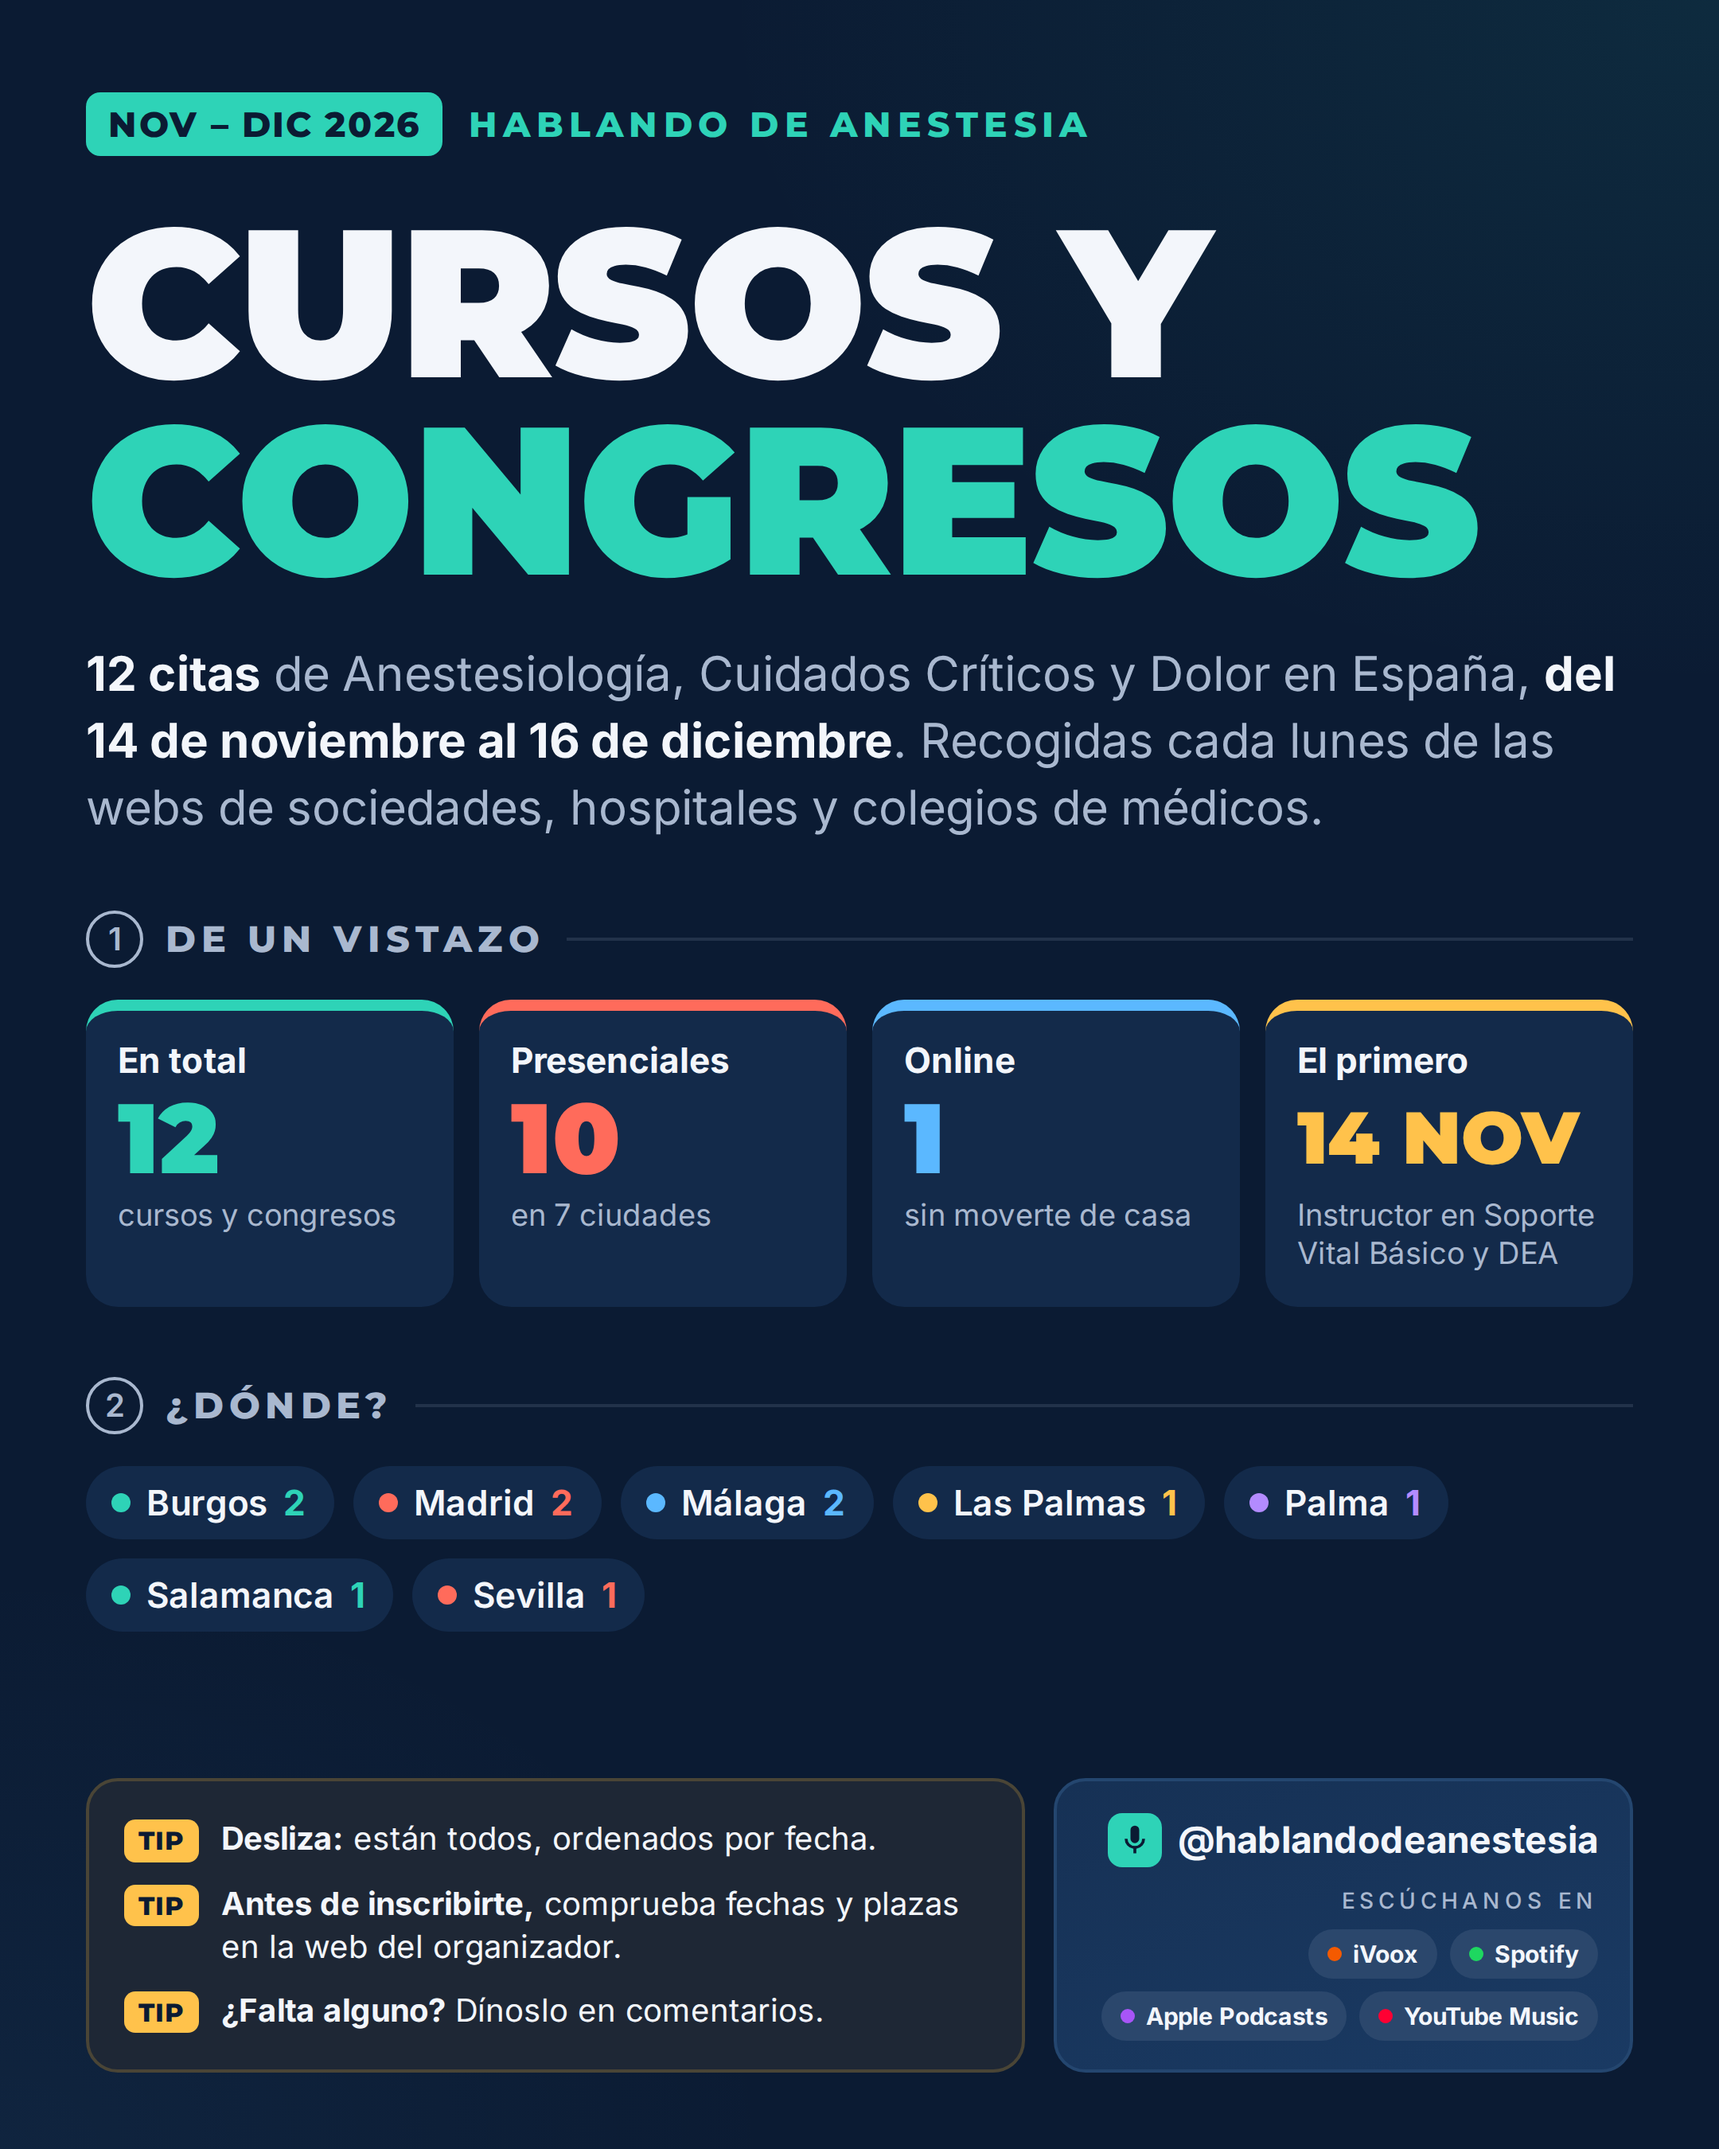
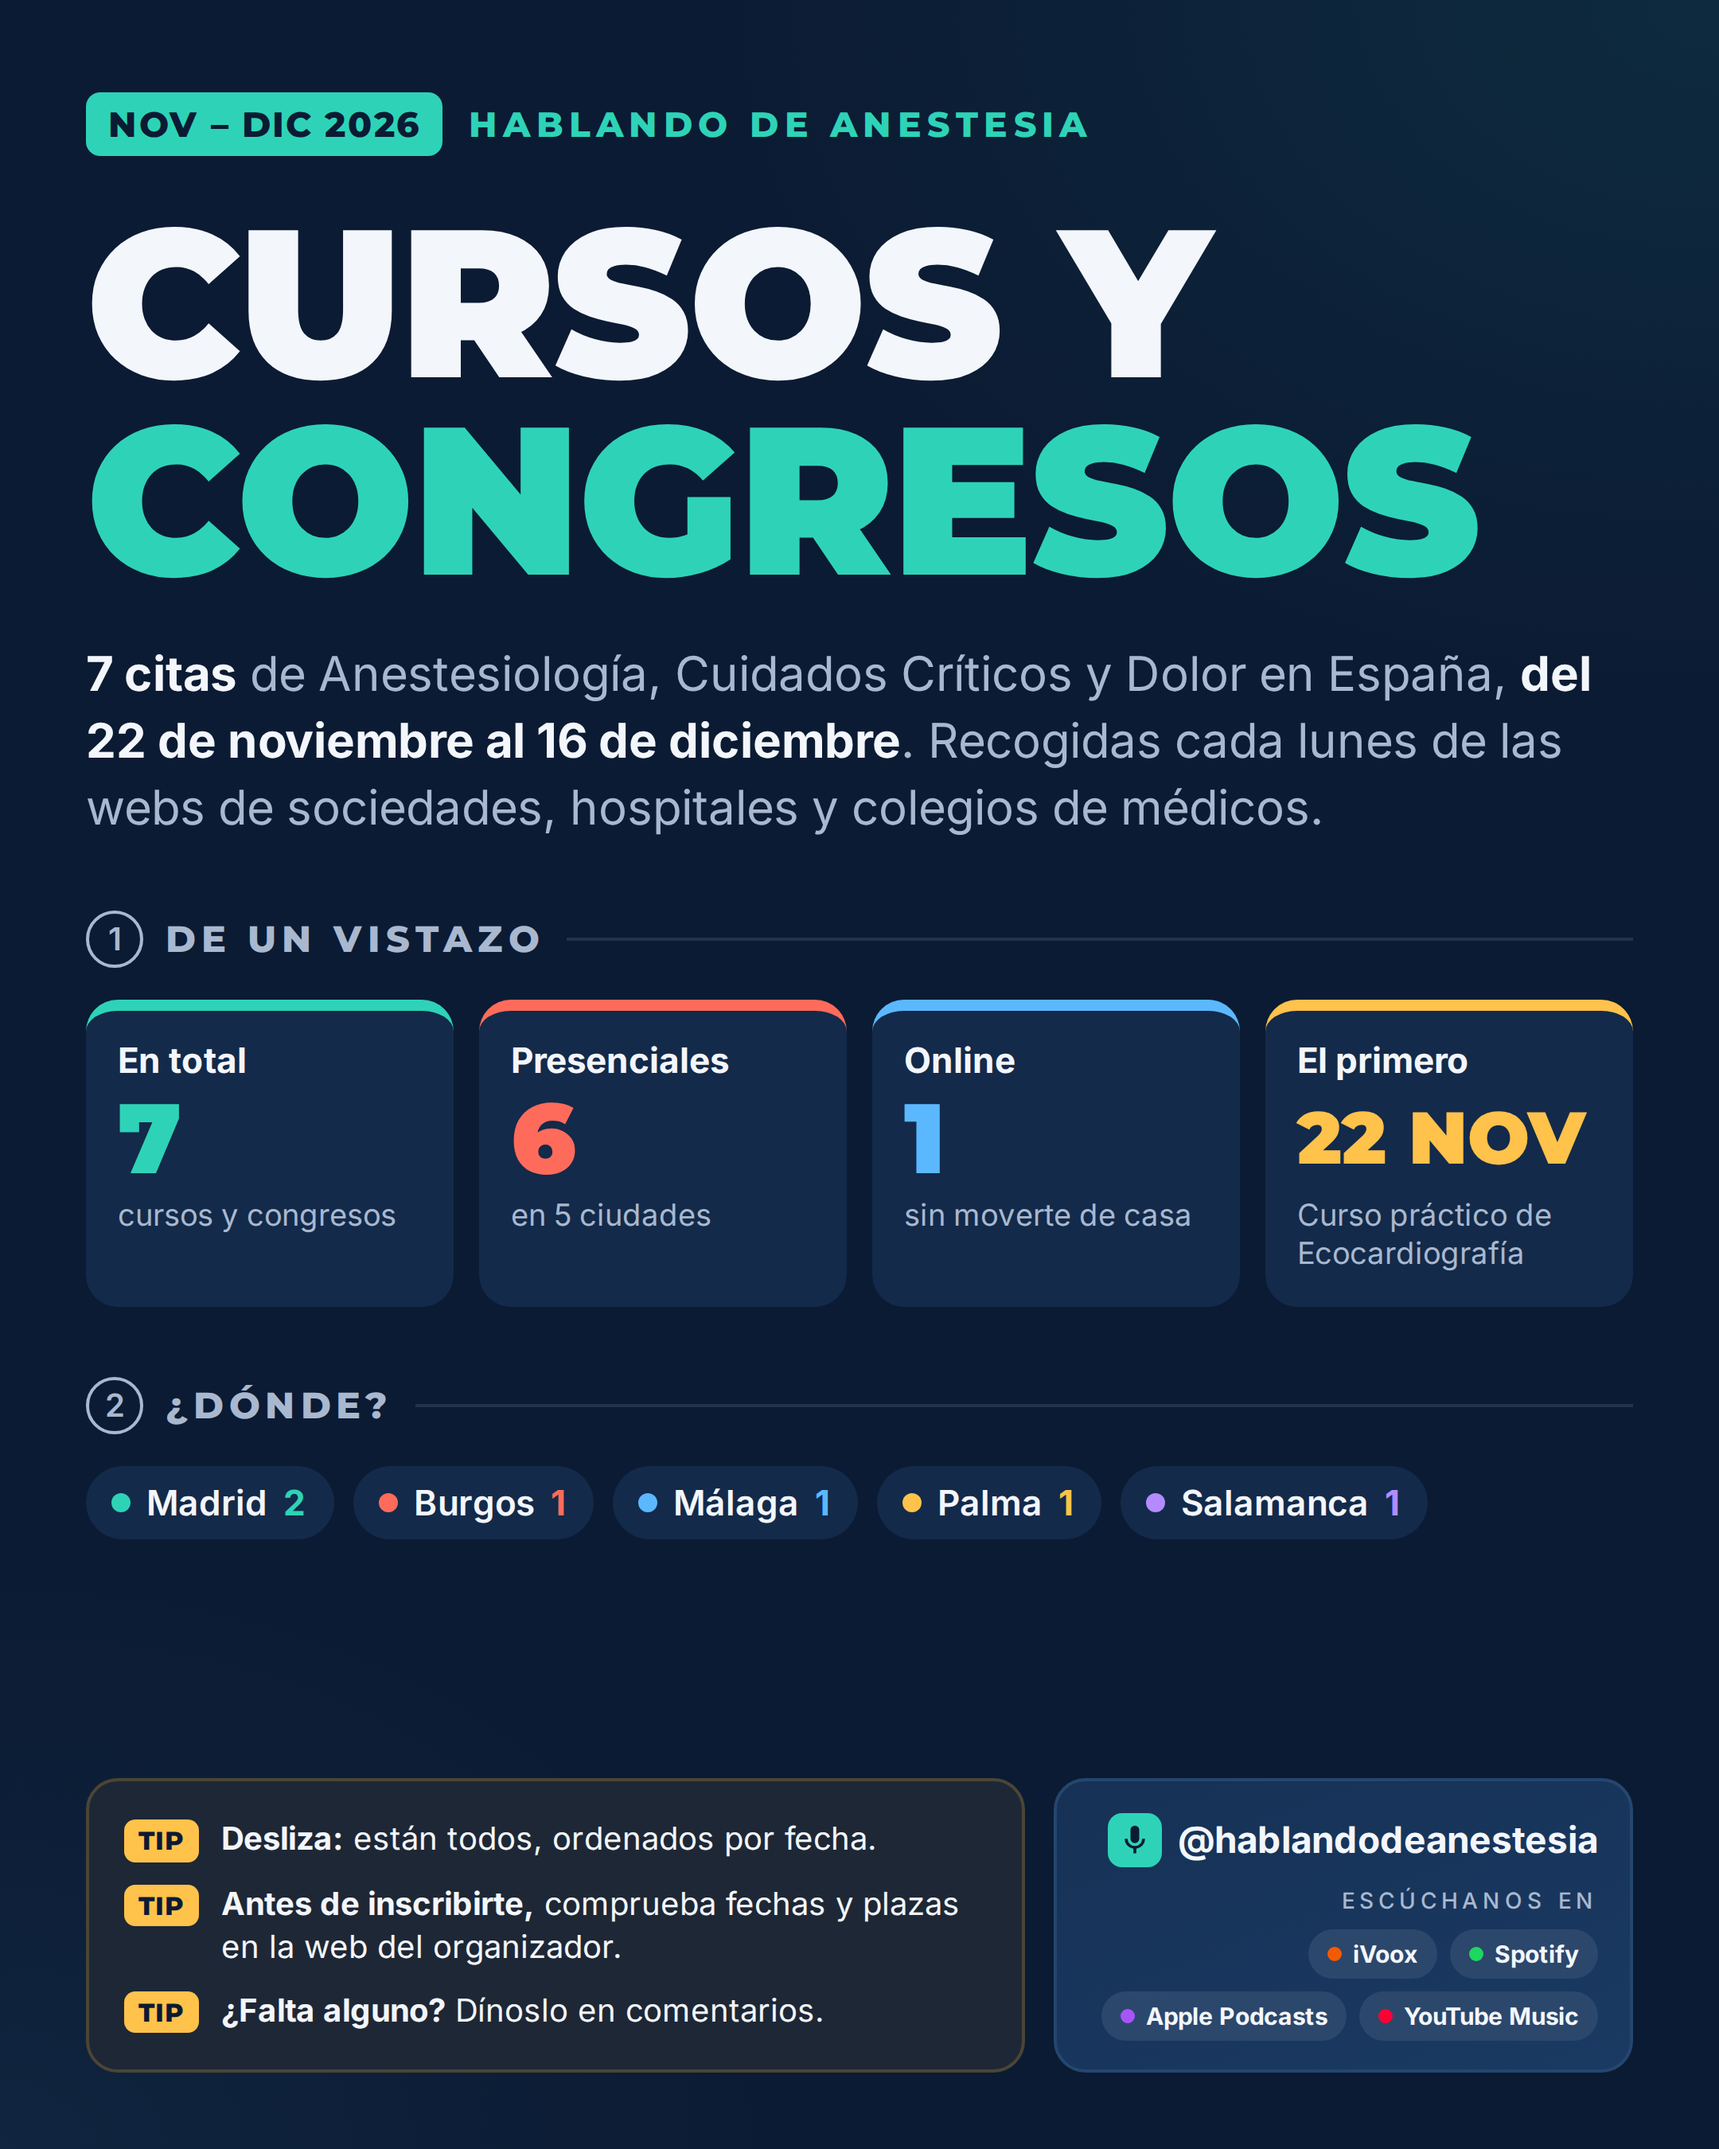
Agenda 2026-11-23

diff --git a/salida/AGENDA-ACTUAL.md b/salida/AGENDA-ACTUAL.md
@@ -1,20 +1,15 @@
 # Agenda — Anestesiología, Cuidados Críticos y Dolor
 
-Generada el 16/11/2026 · 12 eventos
+Generada el 23/11/2026 · 7 eventos
 
 | Título | Fechas | Lugar | Entidad organizadora |
 |---|---|---|---|
-| [Instructor en Soporte Vital Básico y DEA](https://commalaga.com/formacion-commalaga/instructor14noviembre/) | 14 noviembre 2026 | Málaga | Colegio de Médicos de Málaga |
-| [Curso del Colegio: Soporte Vital Cardiaco](https://www.medicoslaspalmas.es/index.php/agenda/month.calendar/2026/11/16/-) | 16 noviembre 2026 | Las Palmas | Colegio de Médicos de Las Palmas |
-| [El baño adaptado del futuro: digitalización, accesibilidad y entornos terapéuticos en el espacio asistencial](https://hospitecnia.com/tecnologia/hospital-digital/bano-adaptado-futuro-digitalizacion-accesibilidad) | 16 noviembre 2026 | — | Hospitecnia — Agenda |
-| [El autocuidado y la prevención del estrés, protagonistas de dos jornadas prácticas dirigidas a profesionales médicos](https://www.combu.es/noticias/combu/actualidad/el-autocuidado-y-la-prevencion-del-estres-protagonistas-de-dos-jornadas-practicas-dirigidas-a-profesionales-medicos/) | 17-25 noviembre 2026 | Burgos | Colegio de Médicos de Burgos |
-| [Nueva sesión del Curso de Soporte Vital Básico y DEA dirigido a médicos y otros profesionales](https://comsevilla.es/nueva-sesion-del-curso-de-soporte-vital-basico-y-dea-dirigido-a-medicos-y-otros-profesionales-el-18-de-noviembre/) | 18 noviembre 2026 | Sevilla | Colegio de Médicos de Sevilla |
-| [II Jornada MIVI – Aesdrc: «Síndrome de Dolor Regional Complejo y Disautonomía, esas grandes desconocidas»](https://comsevilla.es/ii-jornada-mivi-aesdrc-sindrome-de-dolor-regional-complejo-y-disautonomia-esas-grandes-desconocidas/) | 20 noviembre 2026 | Online | Colegio de Médicos de Sevilla |
 | [Curso práctico de Ecocardiografía](https://www.comcordoba.com/curso-practico-de-ecocardiografia/) | 22 noviembre 2026 | Madrid | Colegio de Médicos de Córdoba |
 | [Curso práctico de Ecocardiografía](https://comsalamanca.es/formacion/151268-curso-practico-de-ecocardiografia) | 22 noviembre 2026 | Salamanca | Colegio de Médicos de Salamanca |
 | [Nuevo curso de ecografía clínica en Pediatría los días en Burgos](https://www.combu.es/noticias/combu/actualidad/nuevo-curso-de-ecografia-clinica-en-pediatria-los-dias-23-y-24-de-noviembre-en-burgos/) | 23-24 noviembre 2026 | Burgos | Colegio de Médicos de Burgos |
 | [Jornada Balear de Anestesiología](http://www.sbartd.es/jornada.html) | 27 noviembre 2026 | Palma | SBARTD (Baleares) |
 | [XIX Jornada Anual de Seguridad del Paciente Crítico](https://semicyuc.org/2026/10/xix-jornada-anual-de-seguridad-del-paciente-critico/) | 2 diciembre 2026 | Madrid | SEMICYUC |
+| [Dolor crónico con perspectiva de género: De la evidencia a la práctica clínica](https://formaciondolor.com/evento/dolor-cronico-con-perspectiva-de-genero-de-la-evidencia-a-la-practica-clinica/) | 10 diciembre 2026 | Online | Formación SED |
 | [Curso de Soporte Vital Básico (SVB) y DEA](https://commalaga.com/formacion-commalaga/curso-de-soporte-vital-basico-svb-y-dea-16-de-diciembre/) | 16 diciembre 2026 | Málaga | Colegio de Médicos de Málaga |
 
 > Verificar cada evento en la web oficial antes de publicar: los rastreadores capturan fechas desactualizadas cuando el organizador las cambia.

diff --git a/salida/agenda-2026-11-23.md b/salida/agenda-2026-11-23.md
@@ -1,0 +1,15 @@
+# Agenda — Anestesiología, Cuidados Críticos y Dolor
+
+Generada el 23/11/2026 · 7 eventos
+
+| Título | Fechas | Lugar | Entidad organizadora |
+|---|---|---|---|
+| [Curso práctico de Ecocardiografía](https://www.comcordoba.com/curso-practico-de-ecocardiografia/) | 22 noviembre 2026 | Madrid | Colegio de Médicos de Córdoba |
+| [Curso práctico de Ecocardiografía](https://comsalamanca.es/formacion/151268-curso-practico-de-ecocardiografia) | 22 noviembre 2026 | Salamanca | Colegio de Médicos de Salamanca |
+| [Nuevo curso de ecografía clínica en Pediatría los días en Burgos](https://www.combu.es/noticias/combu/actualidad/nuevo-curso-de-ecografia-clinica-en-pediatria-los-dias-23-y-24-de-noviembre-en-burgos/) | 23-24 noviembre 2026 | Burgos | Colegio de Médicos de Burgos |
+| [Jornada Balear de Anestesiología](http://www.sbartd.es/jornada.html) | 27 noviembre 2026 | Palma | SBARTD (Baleares) |
+| [XIX Jornada Anual de Seguridad del Paciente Crítico](https://semicyuc.org/2026/10/xix-jornada-anual-de-seguridad-del-paciente-critico/) | 2 diciembre 2026 | Madrid | SEMICYUC |
+| [Dolor crónico con perspectiva de género: De la evidencia a la práctica clínica](https://formaciondolor.com/evento/dolor-cronico-con-perspectiva-de-genero-de-la-evidencia-a-la-practica-clinica/) | 10 diciembre 2026 | Online | Formación SED |
+| [Curso de Soporte Vital Básico (SVB) y DEA](https://commalaga.com/formacion-commalaga/curso-de-soporte-vital-basico-svb-y-dea-16-de-diciembre/) | 16 diciembre 2026 | Málaga | Colegio de Médicos de Málaga |
+
+> Verificar cada evento en la web oficial antes de publicar: los rastreadores capturan fechas desactualizadas cuando el organizador las cambia.
